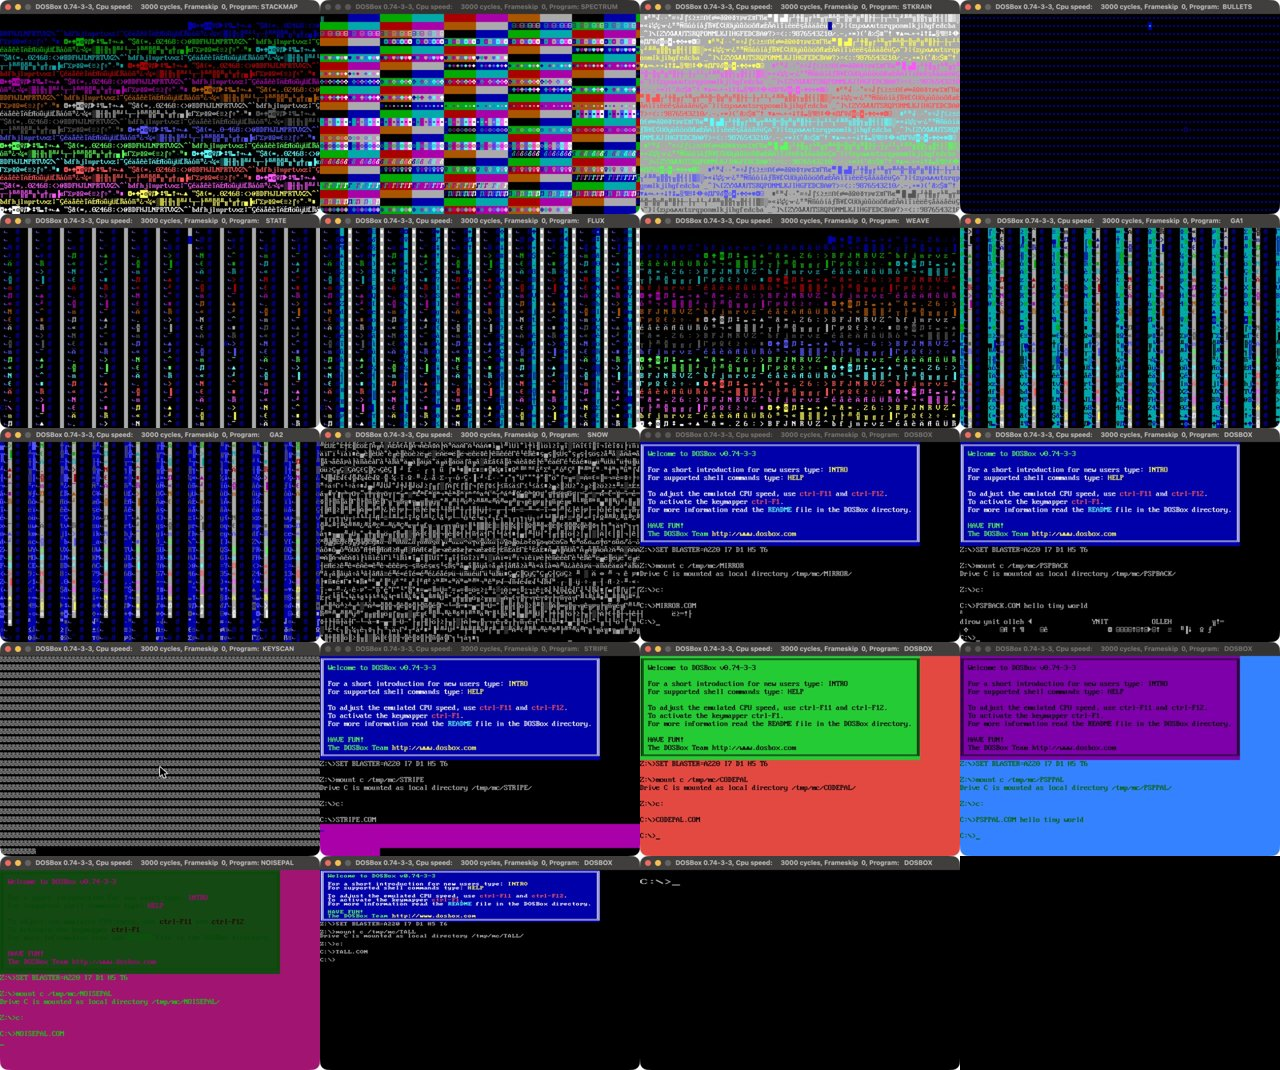
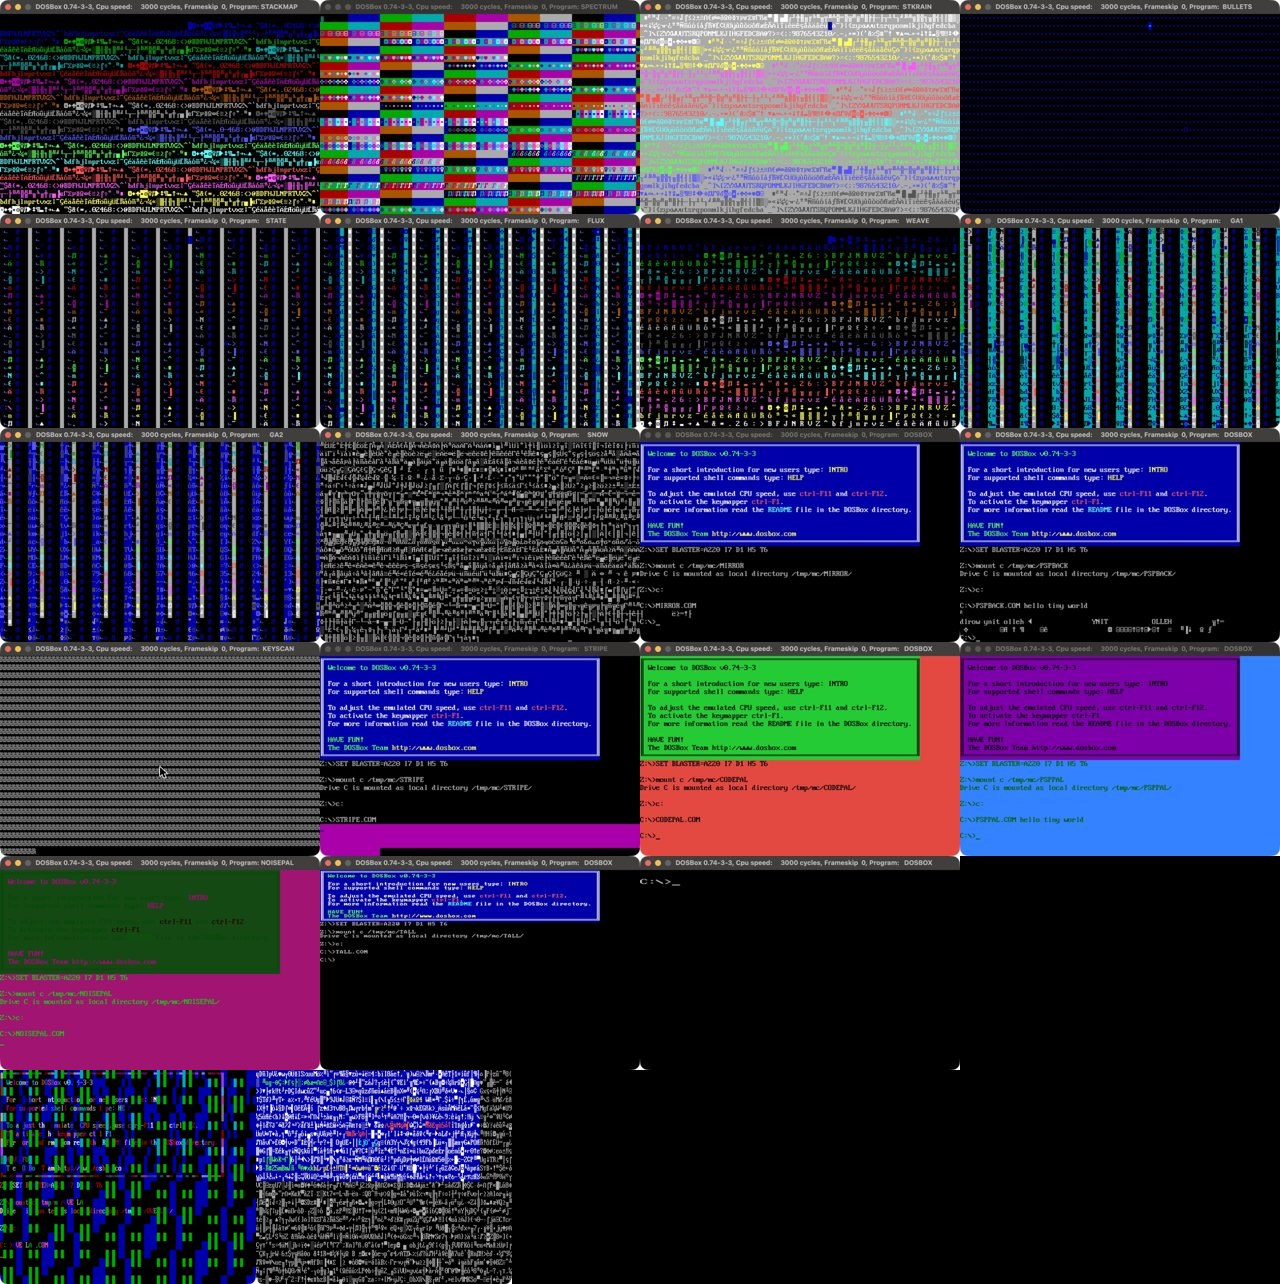
Add OVERHEAR; clean stale wording; gallery gains the overlap captures; document the 8-way overlap family

diff --git a/tests/test_micro.py b/tests/test_micro.py
@@ -329,5 +329,15 @@ for name, mid, mnem in (("OVERLAP", 0x30, "xor"), ("OVERSUB", 0x28, "sub")):
     after = bytes(r2.uc.mem_read(0xB8000, 4000))
     check(sum(1 for a, b in zip(before, after) if a != b) > 200, "and the walk crosses the B800h text page, so it also corrupts the screen: a noise-and-glitch demo")
 
+# ---------------------------------------------------------------- OVERHEAR
+print("\n== OVERHEAR ==")
+r = Run("OVERHEAR.COM"); size_gate("OVERHEAR", r, 8)
+check(r.com == bytes([0xC5, 0x38, 0x04, 0xAD, 0xE6, 0x61, 0xEB, 0xF9]), "bytes C5 38 04 AD E6 61 EB F9: the OVERLAP trick with 38h, so the loop is cmp [si],al / lodsw / out 61h,al / jmp")
+r.uc.mem_write(0xAD040, bytes(i & 255 for i in range(0x10000)))
+before = bytes(r.uc.mem_read(0xAD040, 0x10000)); r.run(60_000)
+vals = [v for p, s_, v in r.outs if p == 0x61]
+check(vals[0] == 0xAD and vals[1:200] == [(0x100 + 2 * k) & 255 for k in range(199)], "after the first ADh it sends the low byte of each successive word of the window to the speaker port: it reads the memory out loud")
+check(bytes(r.uc.mem_read(0xAD040, 0x10000)) == before and r.uc.reg_read(UC_X86_REG_DS) == 0xAD04, "and it never writes: the memory it walks (which includes the B800h text page) is untouched")
+
 print("\nRESULT:", "ALL PASS" if not fails else f"{len(fails)} FAILED:\n  - " + "\n  - ".join(fails))
 sys.exit(1 if fails else 0)

diff --git a/README.md b/README.md
@@ -1,14 +1,14 @@
 # UBER micro demos
 
-**Twenty-eight DOS demos, each under 9 bytes of x86 assembly: the screen painted by the stack, a program that prints its own machine code, one that reverses your command line, one that shows the state DOS left the CPU in, four that make noise, and two that are two programs in the same eight bytes.**
+**Twenty-nine DOS demos, each under 9 bytes of x86 assembly: the screen painted by the stack, a program that prints its own machine code, one that reverses your command line, one that shows the state DOS left the CPU in, four that make noise, and three that are two programs in the same eight bytes.**
 
 [![CI](https://github.com/djayuffe/uber-micro-demos/actions/workflows/ci.yml/badge.svg)](https://github.com/djayuffe/uber-micro-demos/actions/workflows/ci.yml)
 
-![Nineteen of the demos in DOSBox](docs/gallery.jpg)
+![Twenty-one of the demos in DOSBox](docs/gallery.jpg)
 
 *Real DOSBox captures. Row 1: STACKMAP, SPECTRUM, STKRAIN, BULLETS. Row 2: STATE, FLUX, WEAVE, EVO1. Row 3: EVO2, SNOW, MIRROR, PSPBACK
 (`PSPBACK hello tiny world`). Row 4: KEYSCAN (after a key press), STRIPE, CODEPAL, PSPPAL (the two that recolour the DOS screen and exit).
-Row 5: NOISEPAL (one frame of the churn), TALL (80x50), BIG (40x25).*
+Row 5: NOISEPAL (one frame of the churn), TALL (80x50), BIG (40x25). Row 6: OVERLAP (the DOS screen corroding) and OVERSUB (random characters).*
 
 None of them sets a video mode, loads a file or allocates memory. They use what DOS hands a `.COM` for
 free (`AX = BX = 0`, `SI = 100h`, text mode 3, the BIOS and the PC's hardware) and bend it:
@@ -25,6 +25,7 @@ free (`AX = BX = 0`, `SI = 100h`, text mode 3, the BIOS and the PC's hardware) a
 | **EVO2** | 8 | EVO1's cousin (another segment, `cmpsb` for `cmpsw`): a blue wall with colourful glyph strips |
 | **OVERLAP** | 8 | **two programs in the same bytes**: the `JMP` lands one byte inside the first instruction, so `lds si,[bx+si]` becomes `xor [si],al` / `lodsw` / `out 61h,al`. It feeds memory to the speaker and **corrodes the DOS screen** (the walk crosses the text page). Silent over empty memory. |
 | **OVERSUB** | 8 | OVERLAP with `sub` for `xor` (30h becomes 28h, so `lds` loads BP and SI stays put): AL flips ADh, 53h, ADh..., so the speaker toggles on every write, and the screen fills with random characters |
+| **OVERHEAR** | 8 | OVERLAP with `cmp`: the loop only **reads**, so it sends every word of the walked window (the DOS screen's text included) to the speaker port without disturbing the screen |
 | **SPECTRUM** | 8 | STACKMAP with the stack **one byte off**: every word straddles two cells, so the colour changes every cell and the glyph every 128: a test card |
 | **SNOW** | 8 | a **blizzard** of random glyphs: the timer's fast counter, forced into codes 128-255 |
 | **BREATH** | 7 | the text **cursor pulses**: its shape changes every timer tick |
@@ -50,8 +51,8 @@ Download the `.COM` files from the [latest release](../../releases/latest) and r
 [DOSBox](https://www.dosbox.com/) (`mount c .`, `c:`, `STKRAIN.COM`), or build and launch:
 
 ```sh
-./build.sh                  # NASM: assembles all ten and enforces each size budget
-./run-dosbox.sh stkrain   # any of: overlap oversub stackmap spectrum stkrain bullets state flux weave evo1 evo2 snow breath stripe mirror pspback keyscan big tall codepal psppal noisepal mode3 buzz static ticker geiger typer
+./build.sh                  # NASM: assembles every demo and enforces each size budget
+./run-dosbox.sh stkrain   # any of: overlap oversub overhear stackmap spectrum stkrain bullets state flux weave evo1 evo2 snow breath stripe mirror pspback keyscan big tall codepal psppal noisepal mode3 buzz static ticker geiger typer
 ```
 
 Needs [NASM](https://www.nasm.us/) (macOS: `brew install nasm`, `brew install --cask dosbox`).
@@ -63,13 +64,13 @@ unreadable blur or an inaudible whine. BREATH, TICKER and GEIGER pace themselves
 
 ## Overlapping instructions
 
-OVERLAP and OVERSUB (idea from a pasted note on the 8-byte `C5 30 04 AD E6 61 EB F9` trick) run the same bytes
+OVERLAP, OVERSUB and OVERHEAR (idea from a pasted note on the 8-byte `C5 30 04 AD E6 61 EB F9` trick) run the same bytes
 twice, decoded two ways. Pass 1 is `lds si,[bx+si]` / `add al,0ADh` / `out 61h,al` / `jmp`; the jump lands on the 30h
 inside the first instruction, and from then on the loop is `xor [si],al` / `lodsw` / `out 61h,al` / `jmp`. Two things
 the note got wrong, found by running it: DOS enters a `.COM` with `SI = 0100h`, not 0, so `lds` reads the **program's own bytes**
 (DS = AD04h, SI = 30C5h), not the PSP; and that window (AD040h-BD03Fh) **includes the B800h text page**, so it is
 not harmless in text mode: it scrambles the screen. Over empty memory the XOR version is silent (AL stays ADh),
-which is why OVERSUB exists. Both are checked in the emulator; the sound itself is unheard, and with no delay the
+which is why OVERSUB exists. The trick generalises: `C5 mm` is `lds reg,[bx+si]` and `mm 04` is `op [si],al`, and the eight ALU opcodes 00, 08, ..., 38 are exactly the legal modrm bytes, so one byte picks the operation. Tried in the emulator: `sub` and `sbb` always toggle the speaker, `xor`, `add`, `adc` need data in memory, `or` and `and` collapse to a constant, and `cmp` never writes, which is OVERHEAR. Both are checked in the emulator; the sound itself is unheard, and with no delay the
 tone is far above hearing range, so any audible result is aliasing in the audio path.
 
 ## Found-memory demos
@@ -212,10 +213,10 @@ memory outside video memory and its own segment, and then its behaviour: STACKMA
 address; SPECTRUM's colour and glyph bytes are the low and high bytes of the cell address; MIRROR prints exactly its own bytes and exits; STRIPE writes 255 blanks with a counting attribute once per tick; STATE paints the eight start-up registers as a repeating tile; PSPBACK prints the PSP in reverse (including `dlrow ynit olleh`); BIG and TALL make one BIOS call each and exit; KEYSCAN prints the keyboard port; STKRAIN's hold consecutive counter values; BULLETS fills the screen with `0107h`; SNOW prints the counter it
 read, with bit 7 forced on; BREATH sets the cursor shape once per tick, counting up; BUZZ writes 2, 0, 2, 0, ...;
 STATIC and GEIGER write exactly the counter they just read (all four gate/cone combinations occur, GEIGER once per
-tick); TICKER steps the bits once per tick; TYPER echoes the keys it is given. CI runs it on every push; a
+tick); TICKER steps the bits once per tick; TYPER echoes the keys it is given; OVERLAP, OVERSUB and OVERHEAR decode as two programs, drive the speaker port from memory, and (OVERHEAR) never write. CI runs it on every push; a
 `vX.Y.Z` tag publishes a release.
 
-**Run live in DOSBox**: STACKMAP, SPECTRUM, STKRAIN, BULLETS, SNOW and MIRROR (captured above), STRIPE (the band changes colour), BREATH (the cursor visibly changes
+**Run live in DOSBox**: OVERLAP and OVERSUB (captured above; OVERHEAR runs and leaves the screen untouched), STACKMAP, SPECTRUM, STKRAIN, BULLETS, SNOW and MIRROR (captured above), STRIPE (the band changes colour), BREATH (the cursor visibly changes
 shape between frames) and TYPER (it echoes one character per key; DOSBox's synthetic key injection sent them all as
 `a`, which is the injection tool, not TYPER). **What nothing here can tell you**: how BUZZ, STATIC, TICKER and
 GEIGER *sound* (the tests check the exact port writes, not the audio), or how any of it looks on a real VGA.

diff --git a/CHANGELOG.md b/CHANGELOG.md
@@ -1,9 +1,18 @@
 # Changelog
 
-Pushing a `vX.Y.Z` tag runs `.github/workflows/release.yml`, which builds, tests and attaches the ten
-`.COM` files to a GitHub release using that version's section below.
+Pushing a `vX.Y.Z` tag runs `.github/workflows/release.yml`, which builds, tests and attaches every
+`.COM` file to a GitHub release using that version's section below.
 
-## [1.7.0] - 2026-10-09
+## [1.8.0] - 2026-10-10
+
+### Added
+- **OVERHEAR** (8 bytes): the overlapping-instruction trick with `cmp`, so the loop reads the walked window (the DOS screen's text included) to the speaker port and never writes. 29 demos.
+- README: the trick's eight-way family tested and summarised; gallery gains the OVERLAP and OVERSUB captures.
+
+### Fixed
+- Stale wording: the changelog header, the release workflow comment and the build comment still said "ten"; the gallery caption and test description now cover the overlap demos.
+
+## [1.7.0] - 2026-10-10
 
 ### Added
 - **OVERLAP** and **OVERSUB** (8 bytes each): overlapping-instruction demos (a jump into the middle of the first instruction). They walk the VGA/text
